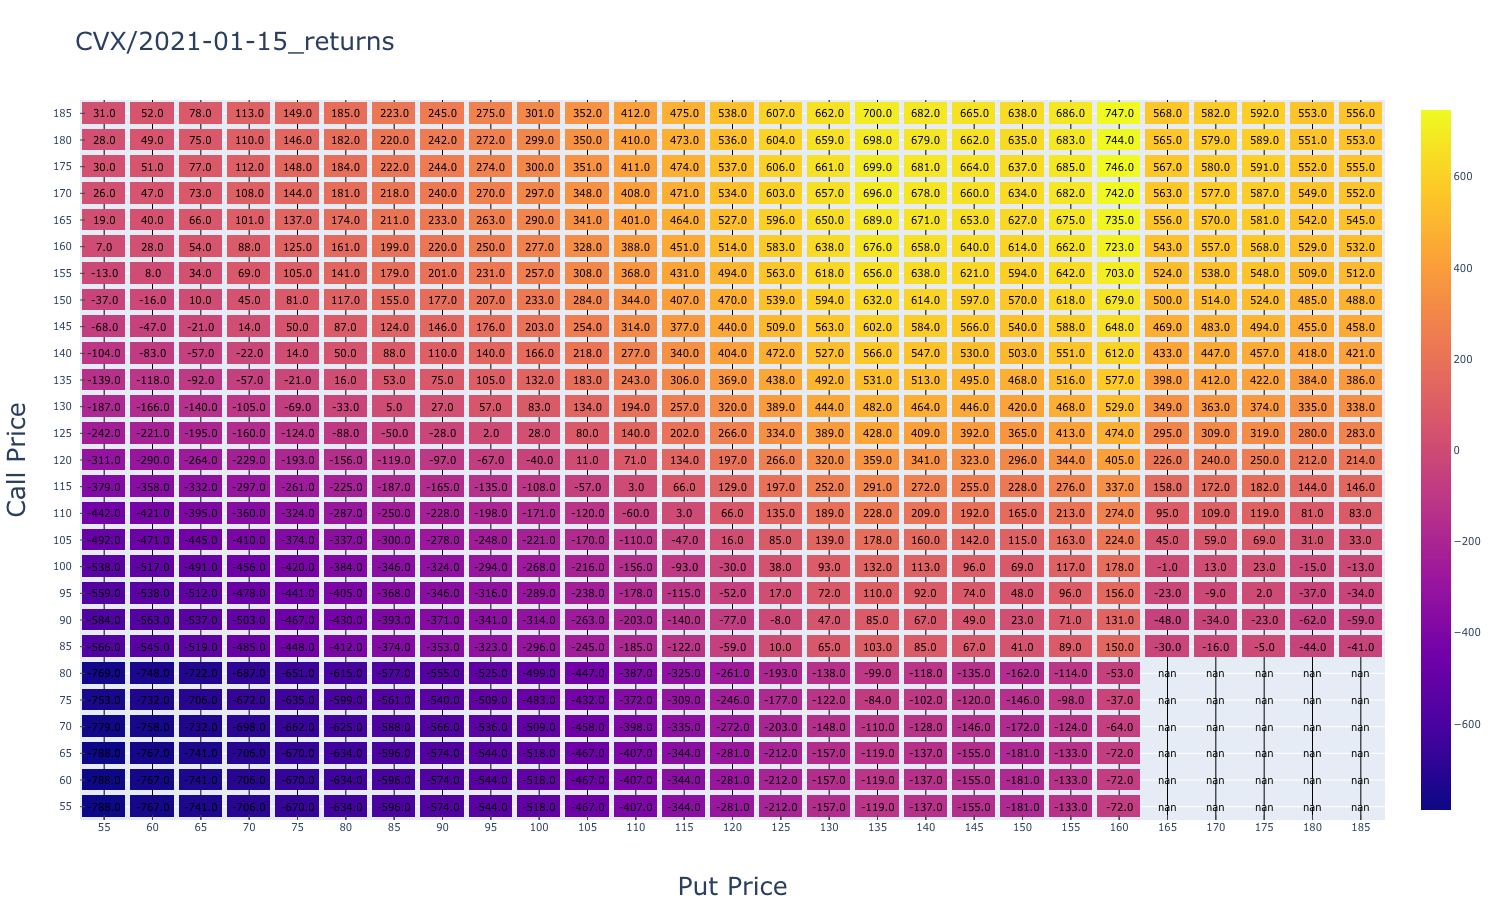
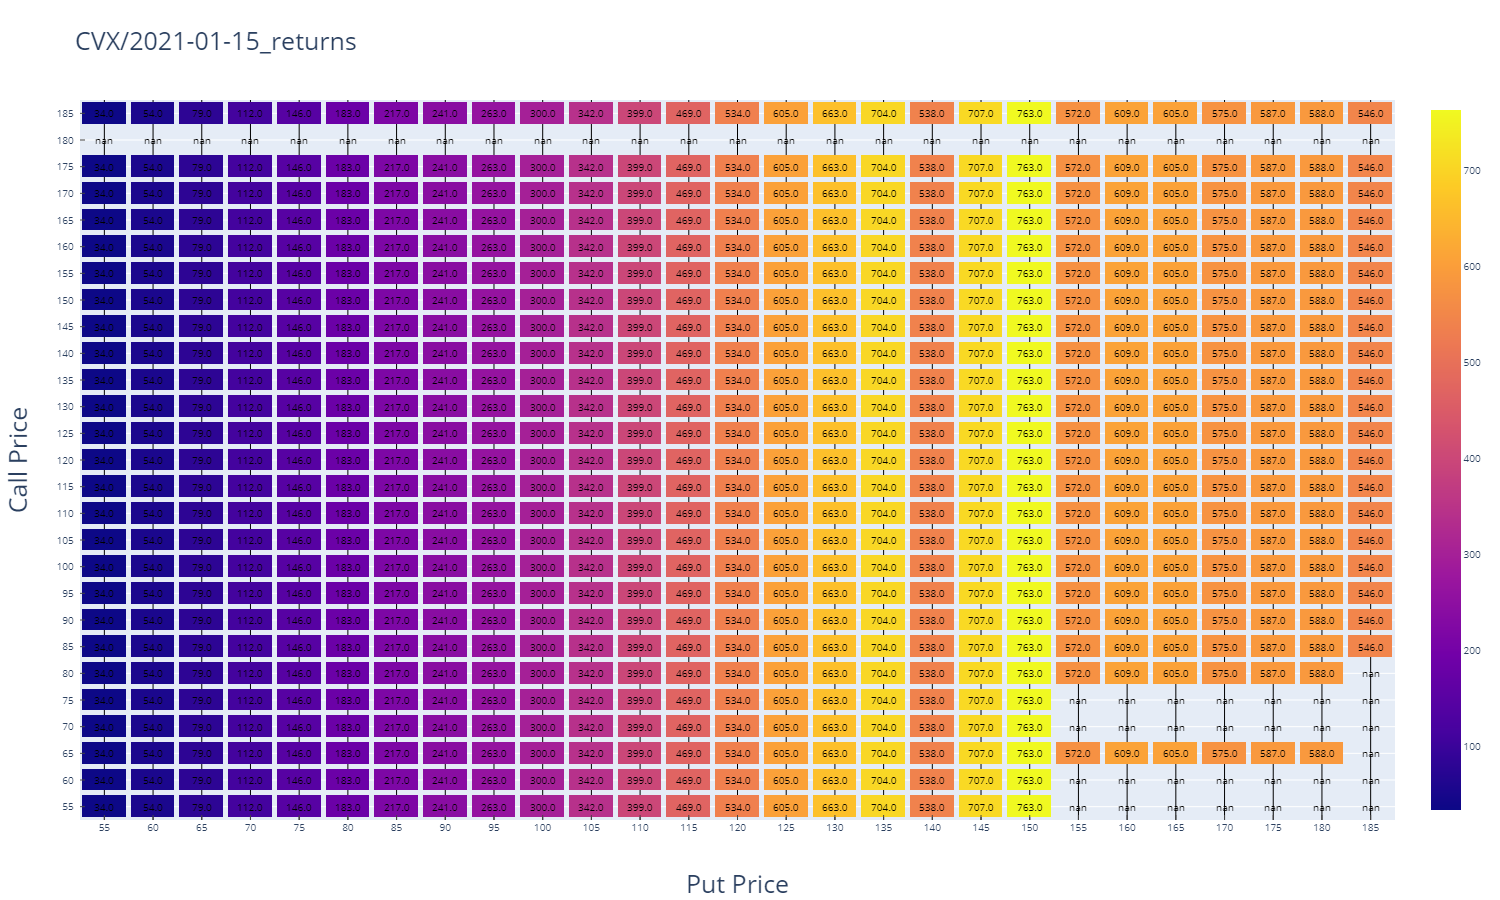
hi

diff --git a/my_fun.py b/my_fun.py
@@ -123,7 +123,7 @@ def price_sorting_new(option_data, strike_date, stock_name):
 # call price is on rows, put price is on columns
 # first sheet is max increase, second sheet is max decrease
 def risk_analysis(sorted_prices, current_price, fixed_commission, contract_commission, final_prices, \
-num_call_buy = 1, num_put_buy = 1):
+num_call_sell = 1, num_put_sell = 1):
     max_increase_break = np.zeros((len(sorted_prices), len(sorted_prices)))
     max_decrease_break = np.zeros((len(sorted_prices), len(sorted_prices)))
     historical_return_avg = np.zeros((len(sorted_prices), len(sorted_prices)))
@@ -134,13 +134,19 @@ num_call_buy = 1, num_put_buy = 1):
         call_strike_price = sorted_prices[n,0]
         call_premium = sorted_prices[n,1]
         call_size = sorted_prices[n,2]
-        call_commission = fixed_commission + num_call_buy*contract_commission
+        if num_call_sell != 0:
+            call_commission = fixed_commission + num_call_sell*contract_commission
+        else:
+            call_commission = 0
         # The columns represent put prices
         for m in range(0,len(sorted_prices)):
             put_strike_price = sorted_prices[m,0]
             put_premium = sorted_prices[m,3]
             put_size = sorted_prices[m,4]
-            put_commission = fixed_commission + num_put_buy*contract_commission
+            if num_put_sell != 0:
+                put_commission = fixed_commission + num_put_sell*contract_commission
+            else:
+                put_commission = 0
             ###
             # Seeing if these options actually exist
             if (call_premium == None) or (put_premium == None):
@@ -150,7 +156,7 @@ num_call_buy = 1, num_put_buy = 1):
             # Seeing if the the combined premium price is enough to cover the call-put difference
             elif ((call_premium + put_premium) <= put_strike_price - call_strike_price \
             # Seeing if the combined premium prices is enough to cover the commission fees
-            or (call_premium*num_call_buy + put_premium*num_put_buy)*100 <= put_commission + call_commission):
+            or (call_premium*num_call_sell + put_premium*num_put_sell)*100 <= put_commission + call_commission):
                 max_increase_break[n,m] = None
                 max_decrease_break[n,m] = None
                 historical_return_avg[n,m] = None
@@ -161,11 +167,11 @@ num_call_buy = 1, num_put_buy = 1):
                                            current_price)/current_price
                 for p in range(0,len(final_prices)):
                     historical_return_avg[n,m] = historical_return_avg[n,m] \
-                    + (min(call_strike_price - final_prices[p], 0) + call_premium) * num_call_buy * 100 \
-                    + (min(final_prices[p] - put_strike_price, 0) + put_premium) * num_put_buy * 100
+                    + (min(call_strike_price - final_prices[p], 0) + call_premium) * num_call_sell * 100 \
+                    + (min(final_prices[p] - put_strike_price, 0) + put_premium) * num_put_sell * 100
                 historical_return_avg[n,m] = (1/len(final_prices))*historical_return_avg[n,m] - call_commission - put_commission
-                # The return avg is the average return for a set of contracts
-                historical_return_avg[n,m] = historical_return_avg[n,m]/((num_call_buy+num_put_buy)/2)
+                # The return avg is the average return per contract
+                historical_return_avg[n,m] = historical_return_avg[n,m]/(num_call_sell+num_put_sell)
     max_increase_decrease[0,:,:] = max_increase_break
     max_increase_decrease[1,:,:] = max_decrease_break
     [percent_change, historical_return_avg] = [max_increase_decrease, historical_return_avg]

diff --git a/main_script.py b/main_script.py
@@ -8,7 +8,7 @@ import time
 q = Questrade()
 #np.set_printoptions(threshold=np.inf)
 
-stock_of_interest = 'JNJ'
+stock_of_interest = 'CVX'
 stock_data = q.symbols_search(prefix = stock_of_interest)
 stock_Id = stock_data['symbols'][0]['symbolId']
 alphaVan_API = 'U4G0AXZ62E77Z161'
@@ -32,7 +32,7 @@ expiry_dates_new = my_fun.date_convert(expiry_dates)
 
 
 #Should be: range(0,len(all_options_data))
-for n in range(0,len(all_options_data)):
+for n in range(len(all_options_data)-2,len(all_options_data)):
     # Gets the strike date and calculates the number of days till expiry
     # COULD ADD EXTRA 1 FOR THE WEEKEND!
     strike_date = expiry_dates_new[n]
@@ -49,7 +49,7 @@ for n in range(0,len(all_options_data)):
     # calculates the max gain and loss bearable
     [max_increase_decrease, hist_return_avg] = \
     my_fun.risk_analysis(sorted_prices, current_price, fixed_commission, contract_commission, hist_final_price, \
-    num_call_buy = 1, num_put_buy = 1)
+    num_call_sell = 0, num_put_sell = 1)
     # annualizes the risk based on the number of days till expiry
     max_per_annualized = my_fun.norm_percentage_annualized(max_increase_decrease, days_till_expiry, num_days_a_year)
     winning = my_fun.percent_chance_win(price_change_percent_annual, max_per_annualized)
